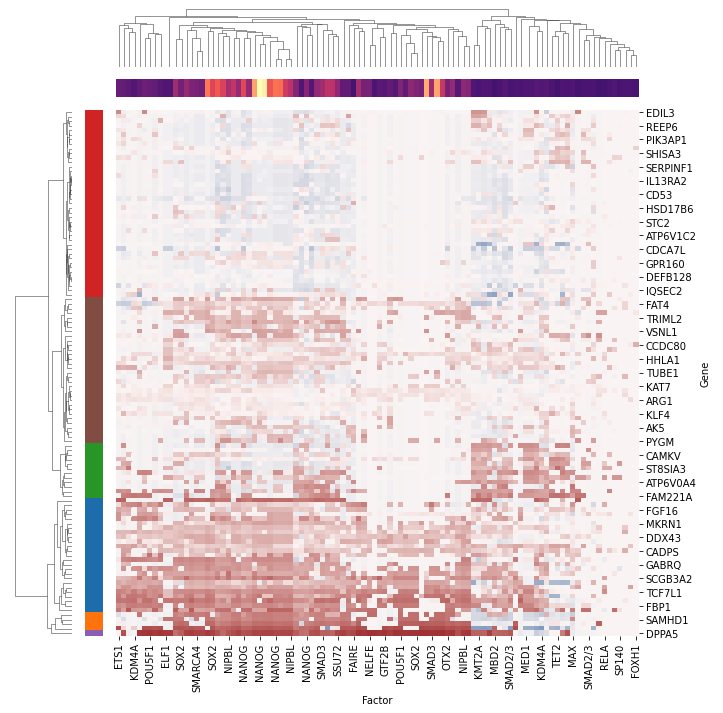
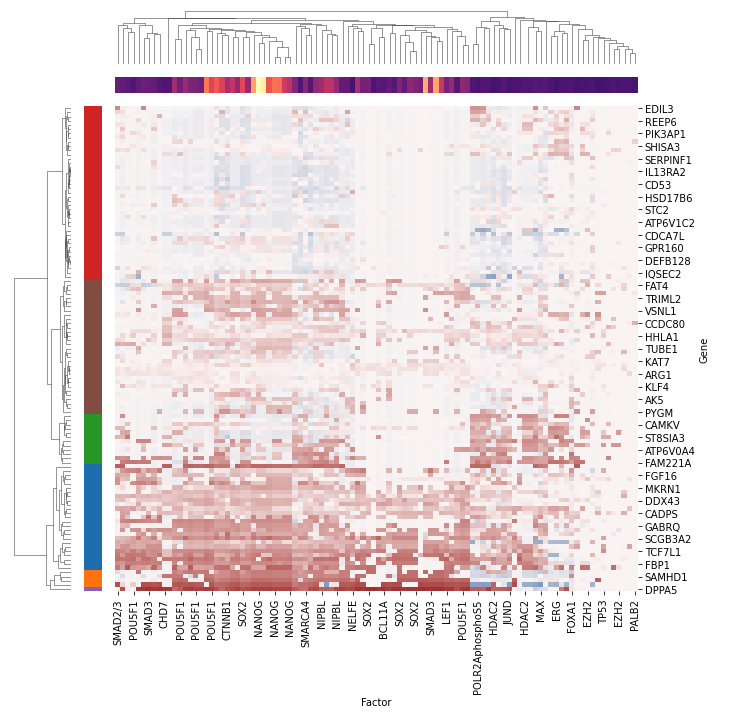
fixed DA guide

Changed region(s): [[0.0609, 0.0, 0.9737, 0.9874], [0.6086, 0.216, 0.6694, 0.2468]]

diff --git a/lisa/core/lisa_core.py b/lisa/core/lisa_core.py
@@ -321,7 +321,7 @@ class LISA_Core:
             return self._format_results(assay_pvals, assay_info, gene_info_dict, summary_p_value = summary_p_value)
 
         except (DatasetNotFoundError):
-            raise DownloadRequiredError('Data is malformed or incomplete, run "lisa download [species]" to redownload dataset')
+            raise DownloadRequiredError('Data is malformed or incomplete, run "lisa download [species] [test]" to redownload dataset')
 
     def get_docs(self):
         return '\n'.join([

diff --git a/docs/DataAnalysisGuide.md b/docs/DataAnalysisGuide.md
@@ -393,17 +393,15 @@ regscores_matrix = pd.DataFrame( #the reg_scores of our query genes
     np.array(metadata["DNase"]['reg_scores']['query_reg_scores']) \
              - np.array(metadata['DNase']['reg_scores']['background_reg_scores']), #subtract the average reg_scores of our background genes
     index = metadata['query_symbols'],  #label the index with our query gene names
-    columns = results['factor'].values[:100] #label the columns with our top 100 factor names (duplicates included)
+    columns = results.sort_values('DNase_p_value')['factor'].values[:100] #label the columns with our top 100 factor names (duplicates included)
 )
 ```
 
+*Since we are using the DNase reg scores above, we must sort the results by "DNase_p_value" before taking the top 100 factors!*
 
 ```python
 regscores_matrix.iloc[:5,:5]
 ```
-
-
-
 
 <div>
 <table border="1" class="dataframe">
@@ -516,16 +514,8 @@ sns.clustermap(regscores_matrix, # our data
               )
 ```
 
-
-
-
-    <seaborn.matrix.ClusterGrid at 0x7fa4eff50490>
-
-
-
-
     
-![png](output_24_1.png)
+![png](example_clustermap.png)
     
 
 
@@ -533,7 +523,7 @@ From the heatmap above, we can see there appears to be 4 major clusters of genes
 
 * The red gene cluster shows little response from our factors, but the blue and orange clusters appear highly influencd by our first branch of TFs, including SOX2, NANOG, and POU5F1. This branch of factors also shows the most significant p-values.
 * Meanwhile, our second TF cluster, which features SMAD3 and NIPBL appears specific for only blue-cluster genes. 
-* Lasly, The third cluster of factors, including MBD2, SMAD2 and MED1, shows influence specific to green-cluster genes. 
+* Lasly, The third cluster of factors, including JUND, HDAC2, and ERG, shows influence specific to green-cluster genes. 
 
 Let's see if these gene subsets are enriched for any biological activity.
 
